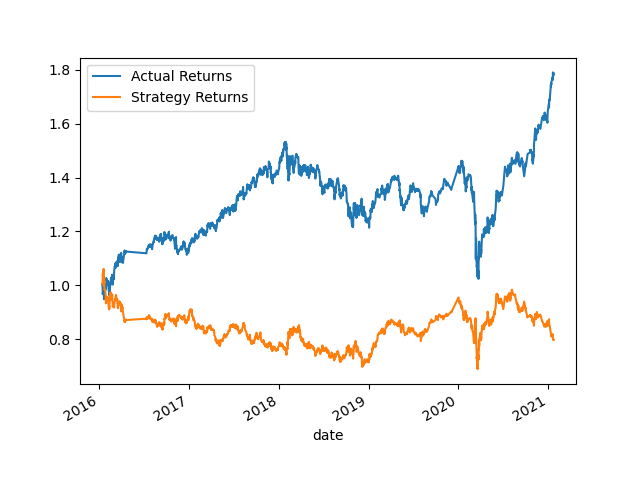
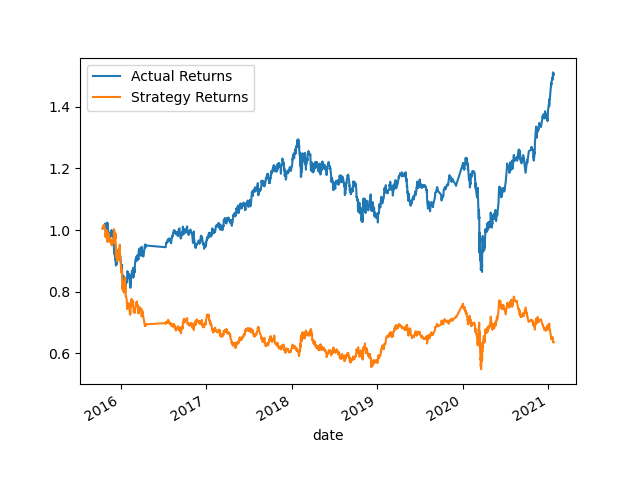
finish analysis

diff --git a/README.md b/README.md
@@ -11,6 +11,11 @@ Here are a summary of the steps
 ___________________________________________________________
 ## Establish a Baseline Performance
 
+### Inputs: 
+- Ending period for the training data: 3 months
+- Short-window for SMA: 4
+- Long-window for SMA: 100
+
 ![Basline Report](./Resources/images/baseline_report_svm.png)
 ![Basline SVM Model](./Resources/images/svm_cumulative_return_plot_3_months.png)
 
@@ -18,16 +23,31 @@ ___________________________________________________________
 ## Tune the Baseline Trading Algorithm
 
 ### 6 Months Window
+- Ending period for the training data: 6 months
+- Short-window for SMA: 4
+- Long-window for SMA: 100
+
 ![6 Months Report](./Resources/images/tune_6_months_report.png)
 ![6 Months SVM Model](./Resources/images/svm_cumulative_return_plot_6_months.png)
 
+- Increasing the window from 3 months baseline to 6 months resulted in a greater divide of Acutal returns vs Strategy returns
+
 ### Window 25 to 250
+- Ending period for the training data: 3 months
+- Short-window for SMA: 25
+- Long-window for SMA: 250
+
 ![25 to 50 Report](./Resources/images/tune_25_to_250_report.png)
 ![25 to 50  SVM Model](./Resources/images/svm_cumulative_return_plot_25_to_250.png)
 
+- Changing the short and long window results compared to the baseline is relatively the same but in the beginning the model for Actual and Strategy returns was closer aligned 
 
 ## Evaluate a New Machine Learning Classifier
-
+- Ending period for the training data: 3 months
+- Short-window for SMA: 4
+- Long-window for SMA: 100
 
 ![Decision Tree Report](./Resources/images/decision_tree_cumulative_return_plot.png)
 ![Decision Tree Model](./Resources/images/decision_tree_report.png)
+
+- It appears that the precision for the Decision Tree Classification for precision vs the basline SMV models is relatively the same. However, it appears the SVM does better when it comes to recall. 
